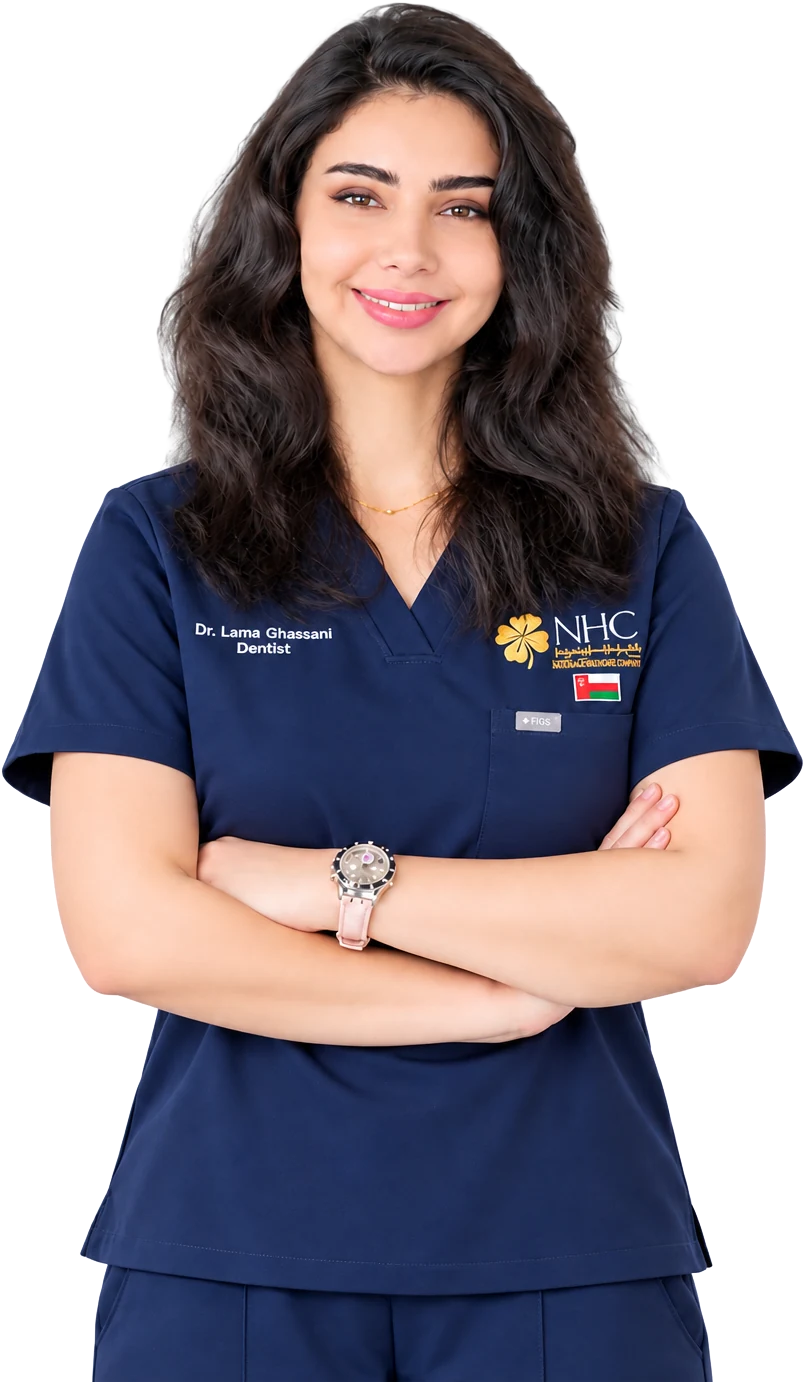
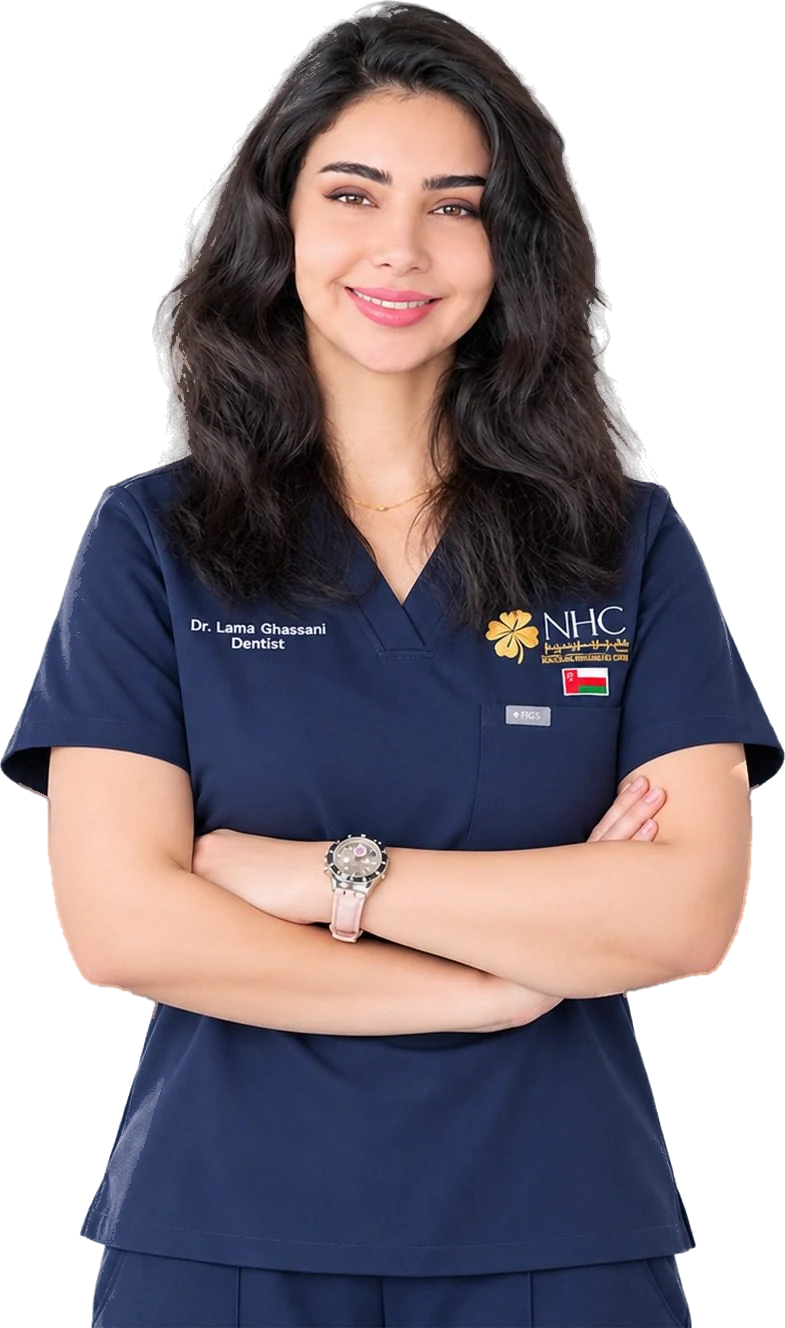
Remove white outline around hair in Dr. Lama hero photo

diff --git a/src/site/index.html b/src/site/index.html
@@ -110,7 +110,7 @@
                     <span class="lx-orbit" aria-hidden="true"><i class="fas fa-tooth"></i></span>
                     <span class="lx-orbit lx-orbit-2" aria-hidden="true"><i class="fas fa-star"></i></span>
                     <div class="lx-arch">
-                        <img class="lx-doctor" width="804" height="1382" src="/img/hero-dr-lama.webp" alt="Dr. Lama Ghassan, Cosmetic Dentist" fetchpriority="high">
+                        <img class="lx-doctor" width="785" height="1328" src="/img/hero-dr-lama.webp?v=2" alt="Dr. Lama Ghassan, Cosmetic Dentist" fetchpriority="high">
                     </div>
                     <div class="lx-float lx-float-badge">
                         <i class="fas fa-shield-alt" aria-hidden="true"></i>
